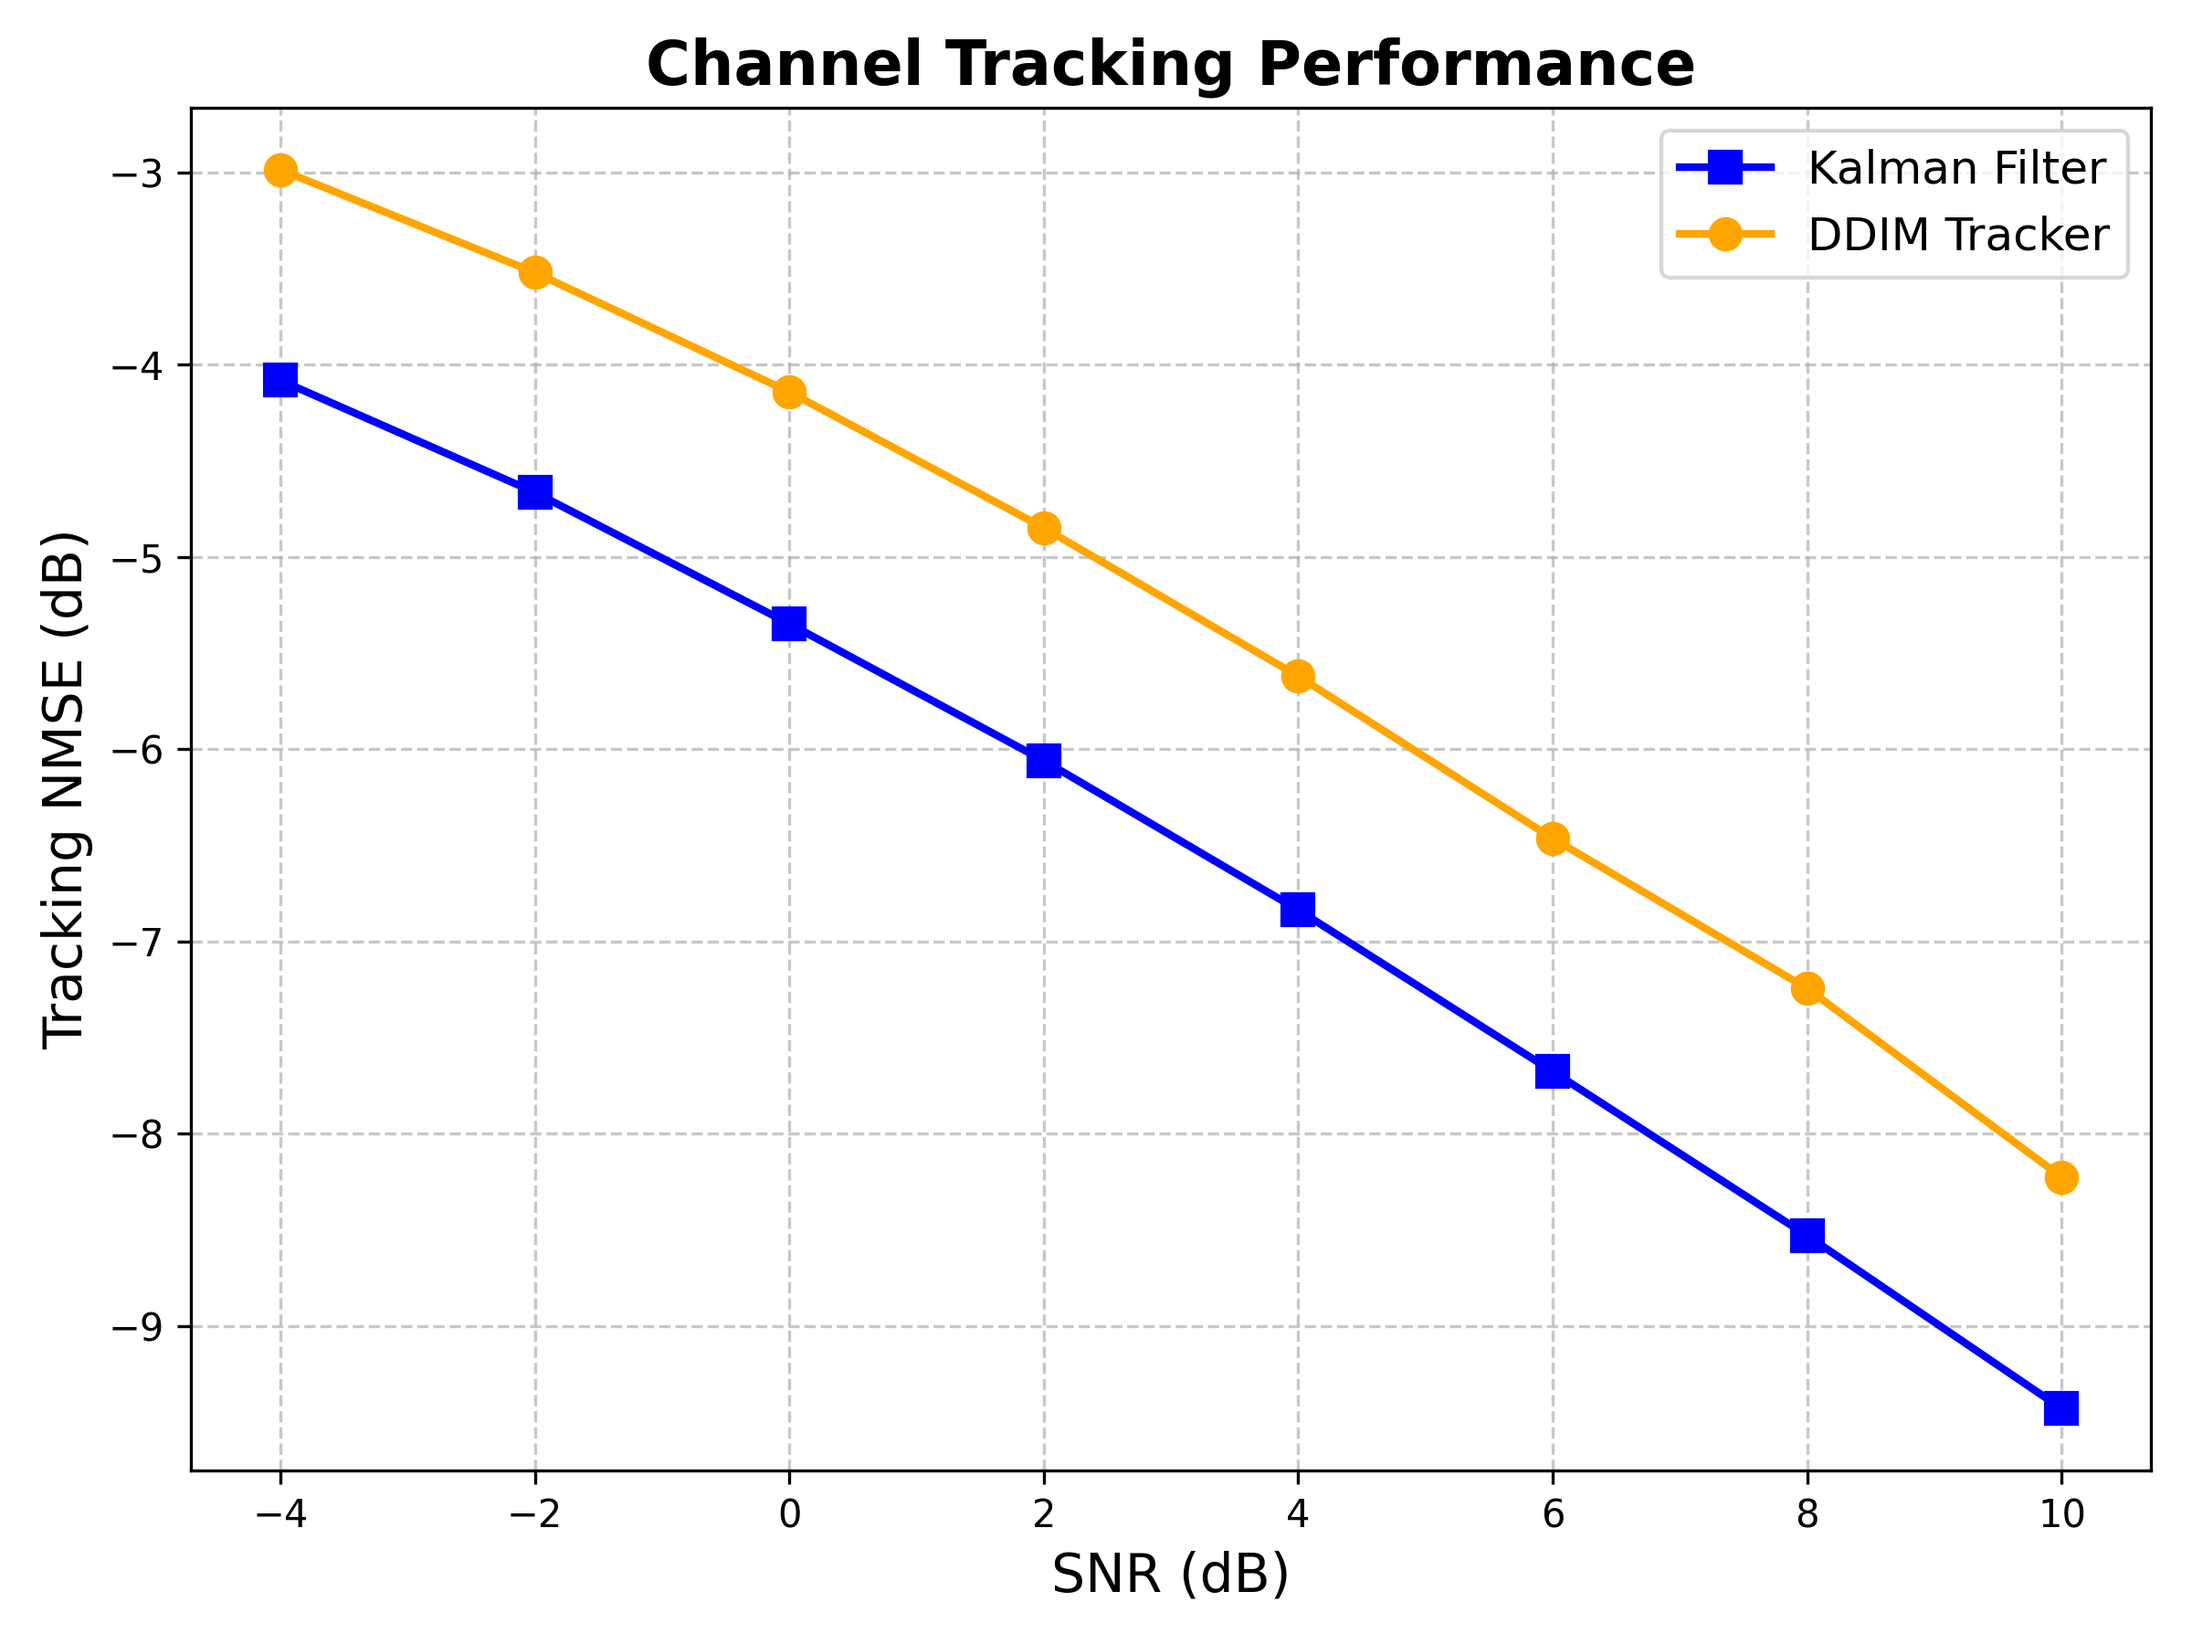
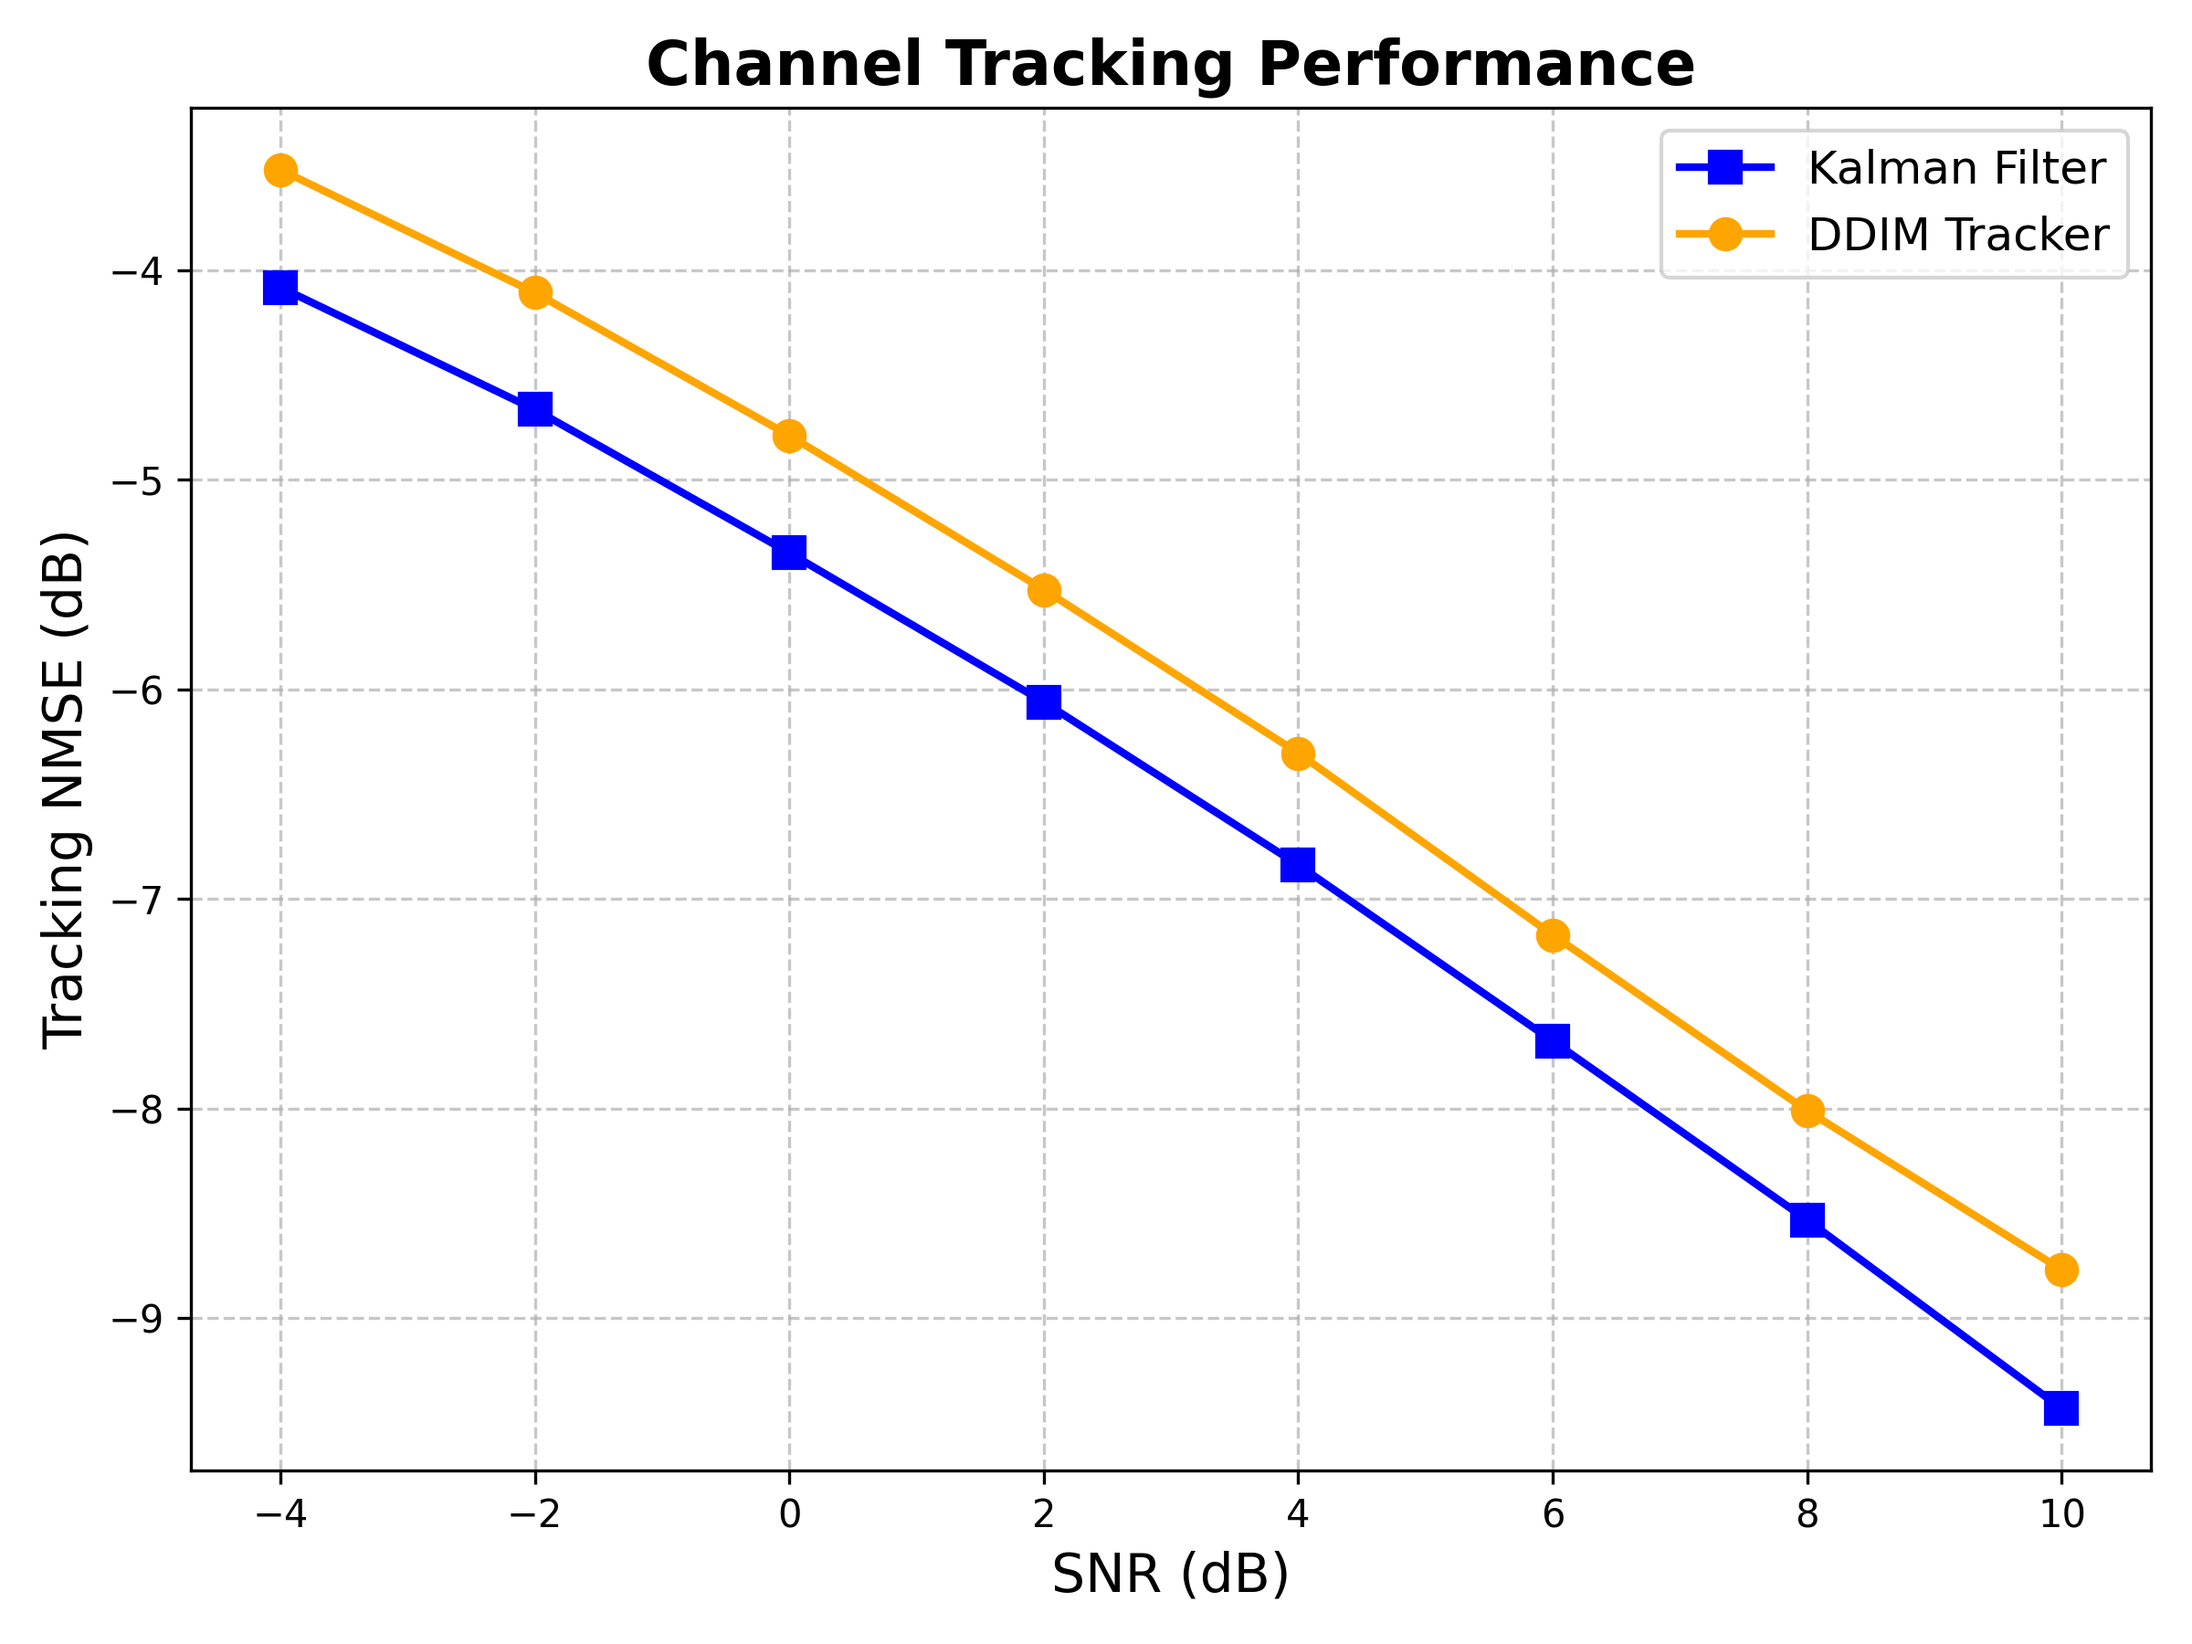
experiment: fine-tune the DDIM parameters (K=80, lambda=0.16)

diff --git a/small_scale_channel_tracking/main_DDIM_tracker.py b/small_scale_channel_tracking/main_DDIM_tracker.py
@@ -37,8 +37,8 @@ NUM_SAMPLING_STEPS = 1000
 # K_START defines how much noise to add to the KF prediction. 
 # For rho=0.995 (very accurate prediction), a small value (15) is perfect. 
 # If tracking faster users (e.g. rho=0.8), you would increase this.
-K_START = 10
-GUIDANCE_LAMBDA = 0.1
+K_START = 80
+GUIDANCE_LAMBDA = 0.16
 # -----------------------------------
 
 MODEL_WEIGHT_FILE_NAME = f"Tracker_DDIM_{FREQ_GHZ}GHz_rT{R_T}_{MODEL_TYPE}_lr{LR:.0e}.pth"
